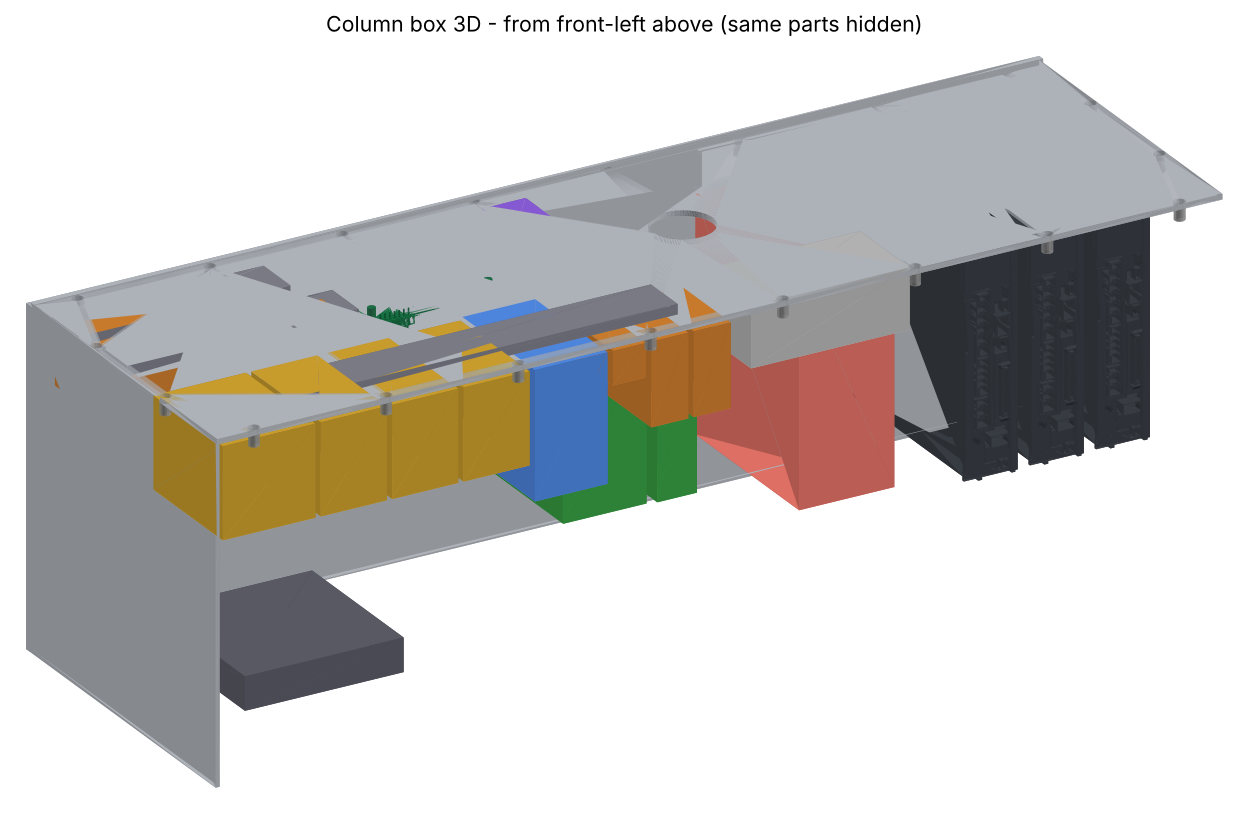
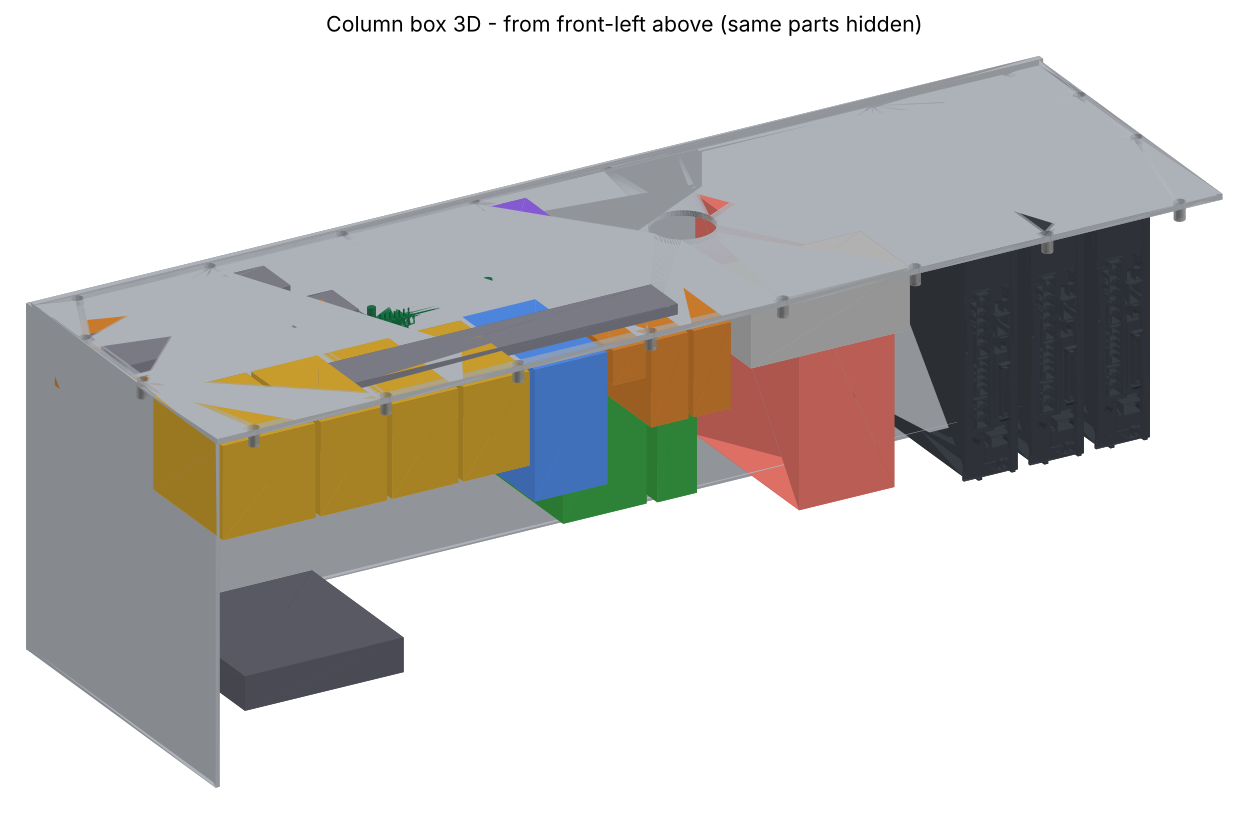
column_box: pull-nut positions corrected per mechanical session (rear x150->100, sides y360/435); louvre filter included in interference check
Claude-Session: https://claude.ai/code/session_013qHaQ6vFU7V2xp3GxKTiKz

Changed region(s): [[0.0625, 0.3686, 0.3125, 0.5221], [0.8125, 0.2457, 0.8438, 0.3071], [0.5625, 0.2457, 0.5938, 0.2764]]

diff --git a/column_box/build_step.py b/column_box/build_step.py
@@ -20,7 +20,7 @@ def add(name, shape, grp):
     o = doc.addObject('Part::Feature', name); o.Shape = shape; OBJ[name] = (o, grp); return o
 X0, X1, Y0, Y1, Z0, Z1 = L.ENV
 # ------------------------------------------------ enclosure
-NUTS = [(x, y) for y in (259, 490) for x in (-350, -250, -150, -50, 50, 150, 250, 350)] + [(sx, y) for sx in (-376, 376) for y in (330, 420)]
+NUTS = [(x, 259) for x in (-350, -250, -150, -50, 50, 150, 250, 350)] + [(x, 490) for x in (-350, -250, -150, -50, 50, 100, 250, 350)] + [(sx, y) for sx in (-376, 376) for y in (360, 435)]
 rp = box(-380, 380, 255, 495, 487, 491).cut(cyl('z', 22.5, 486, 492, 50, 390))
 for (nx, ny) in NUTS: rp = rp.cut(cyl('z', 4, 486, 492, nx, ny))
 add('Box_roof_plate', rp, 'enclosure (mounting plate t4 z487..491; the mechanical top plate t3 z491..494 sits on it and is not modelled here; 20 M5 holes with pull nuts)')
@@ -66,7 +66,7 @@ def vol(a, b):
     if not A.BoundBox.intersect(B.BoundBox): return 0
     return A.common(B).Volume
 encl = [n for n in names if n.startswith('Box_')]
-partn = [n for n in names if (OBJ[n][1].startswith('parts') or OBJ[n][1] == 'DIN rails') and n != 'Louvre_filter']
+partn = [n for n in names if (OBJ[n][1].startswith('parts') or OBJ[n][1] == 'DIN rails')]
 for a in partn:
     for e in encl:
         v = vol(a, e)

diff --git a/column_box/README.md b/column_box/README.md
@@ -35,5 +35,5 @@
 ## 固定方式（機構 session 定案，owner 同意）
 - 機構側做「電箱頂板」SPHC t3（z 491..494），整個電箱從下面吊鎖在頂板底面；本資料夾不再有自己的屋頂板（`Box_roof_sheet` 已移除）。
 - 箱內整體下移 1 mm：安裝板 t4 z 487..491，牆頂 z 491，底蓋 z 241..244；伺服上下間隙仍 35 mm。
-- 吊鎖：安裝板上 20 個 M5 拉帽孔（前排 y 259、後排 y 490，x = ±50/150/250/350；兩側 x ±376，y 330/420），拉帽在板下凸出 9 mm（z 478..487），與屋頂電料最近 1~2 mm（RCD、DC1、QF 等），干涉檢查 0 處；FL2 預留位與 DIN 軌端點因此微調。
+- 吊鎖：安裝板上 20 個 M5 拉帽孔（前排 y 259、後排 y 490，x = -350/-250/-150/-50/50/100/250/350（x 150 撞出風濾網改 100）；兩側 x ±376，y 360/435（避開 DIN 軌）），拉帽在板下凸出 9 mm（z 478..487），與屋頂電料最近 1~2 mm（RCD、DC1、QF 等），干涉檢查 0 處；FL2 預留位與 DIN 軌端點因此微調。
 - X 浪管孔 Ø45 (50, 390) 在安裝板同位置；Y 浪管進線孔 (−120, 330) 在底蓋 z 241。
